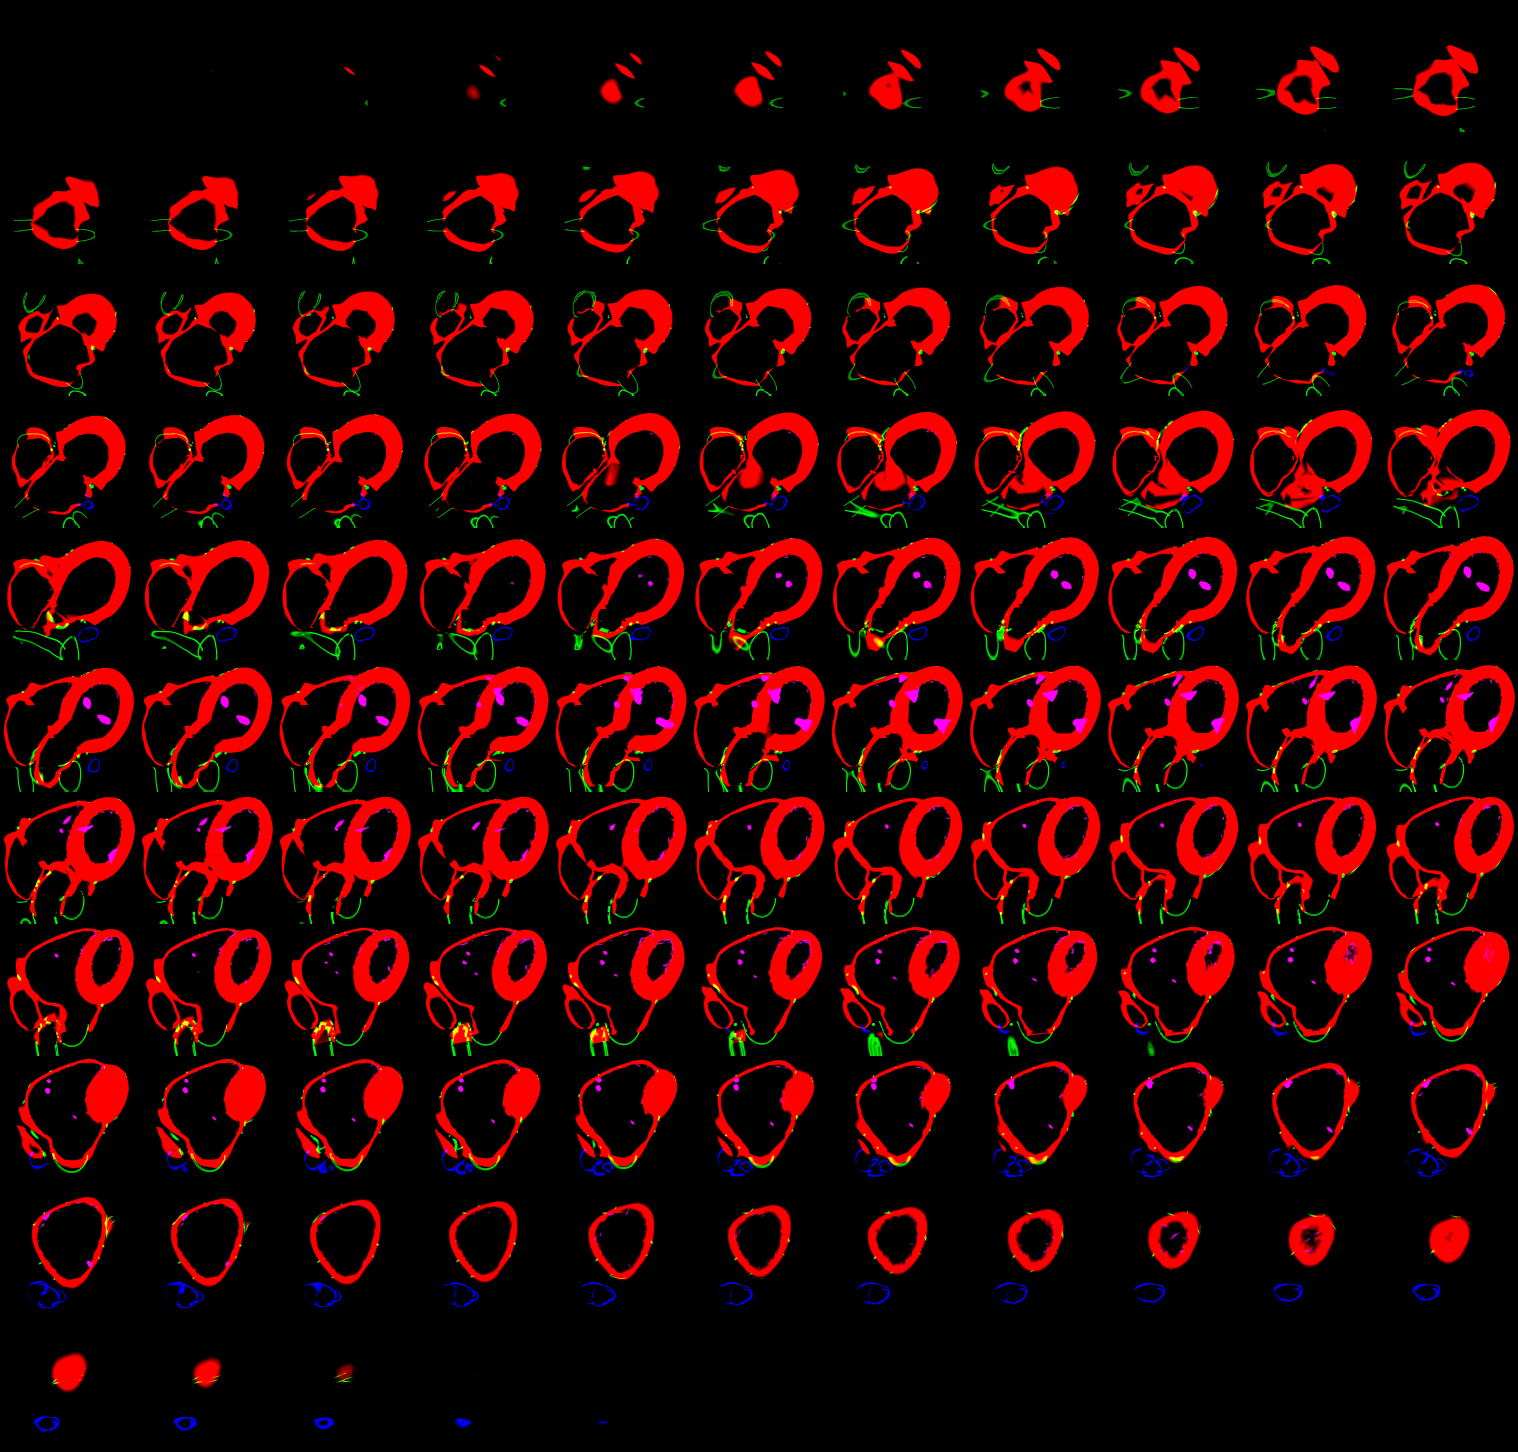
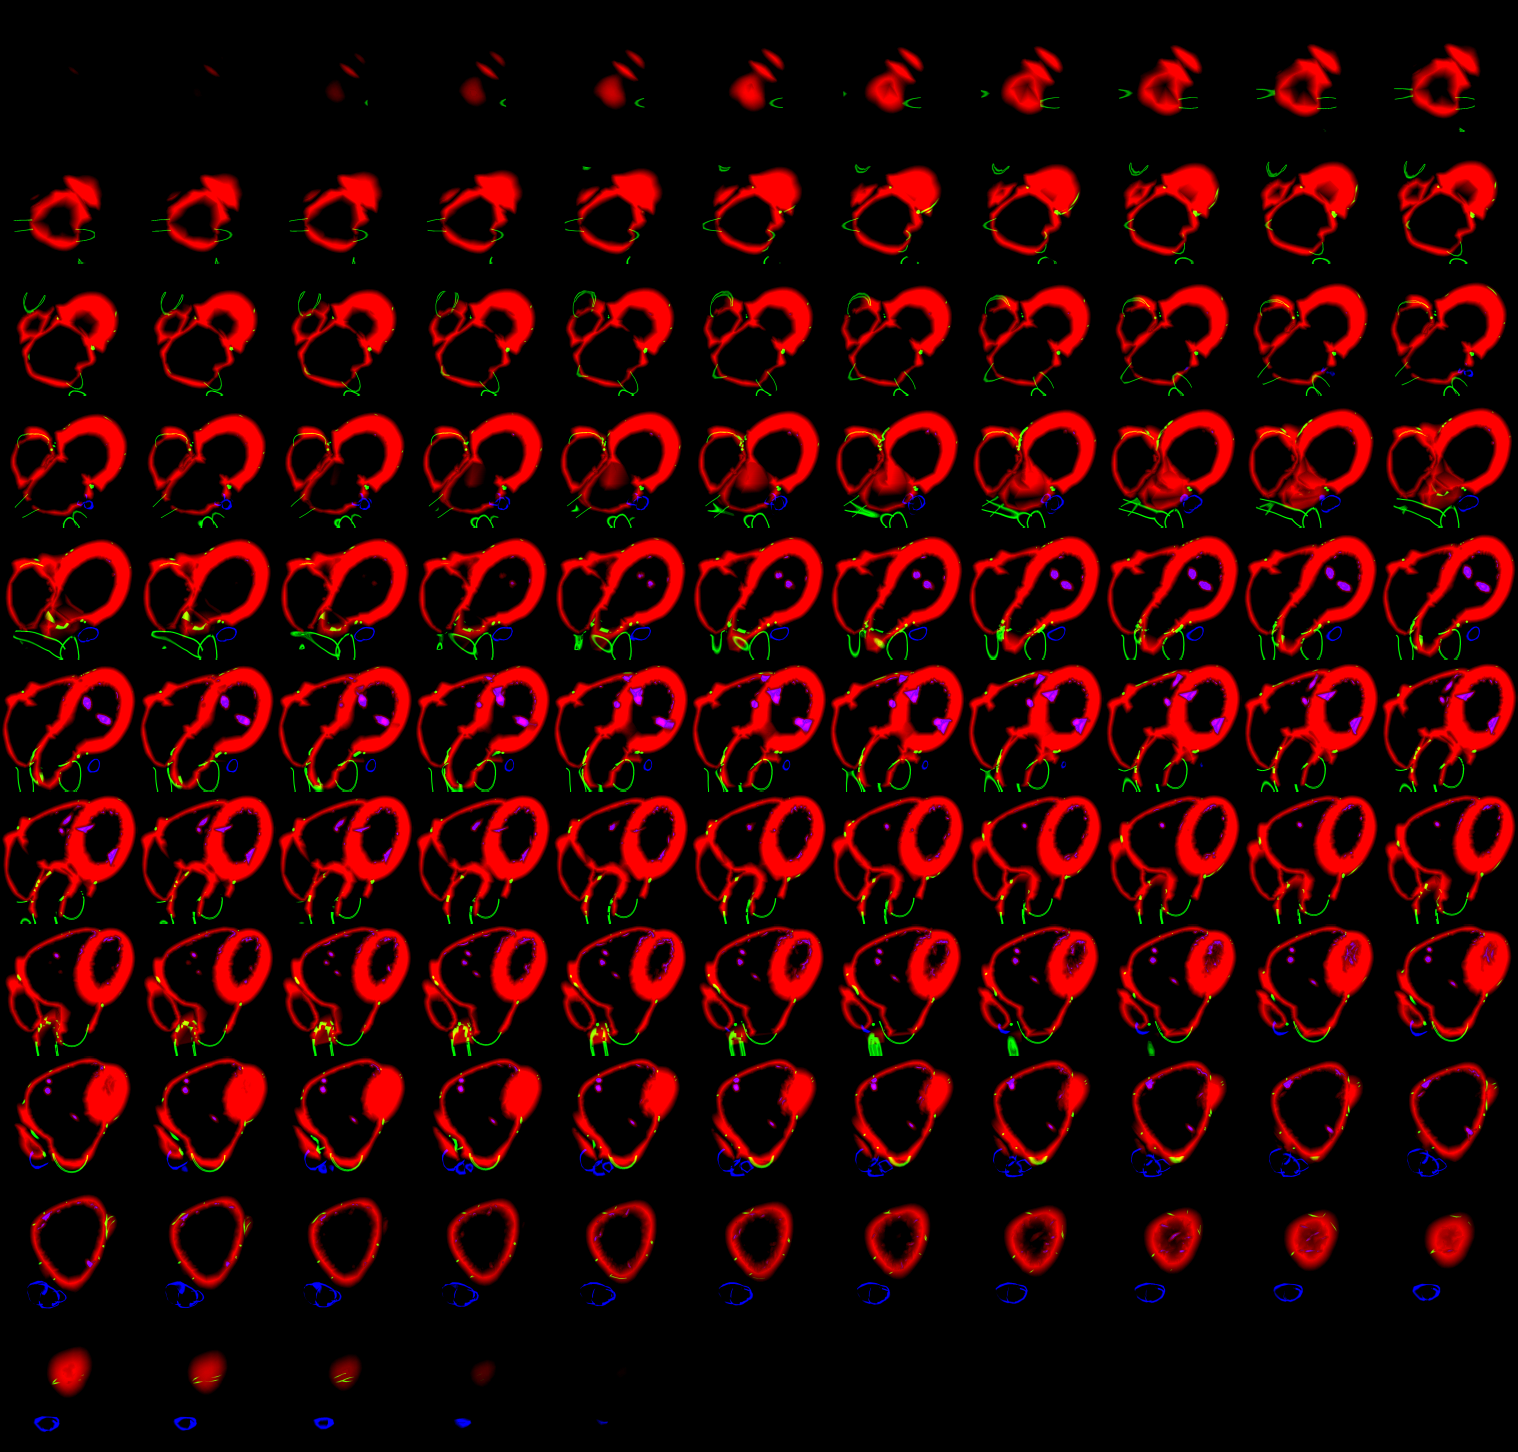
3D organi: gladek rob prereza srca, kader očesa in srca, nova sličica po nalaganju tekstur reza
- rez-stena.mjs: kanal R je predznačena razdalja do ploskve (prej delež voksla): rob pokrova ni več valovit
- organ.js + pregledovalnik.js: ko se teksture reza naložijo, model zahteva novo sličico (prej je pokrov do prvega
  dotika lahko ostal brez tekstur, skozenj so se videle venčne žile)
- oko: kamera dlje (mišice ne gredo čez rob in pod pas stikal); srce: na telefonu se ne dotika spodnjega roba

Claude-Session: https://claude.ai/code/session_01BUVnqgotbzd5vBJtUiL5sp

diff --git a/public/3d/organ.js b/public/3d/organ.js
@@ -1224,10 +1224,10 @@ export async function zgradiOrgan(ime, ctx = {}) {
     }
     // naslikane rezne ploskve: prenos šele ob prvem prerezu (celota jih ne potrebuje)
     if (rezi) {
-      for (const c of volCaka.splice(0)) new THREE.ImageLoader().load(`${BAZA}${c.pot}`, (img) => { c.tx.image = img; c.tx.needsUpdate = true; }, undefined, (e) => console.warn("organ: prostorska tekstura reza ni naložena", e));
+      for (const c of volCaka.splice(0)) new THREE.ImageLoader().load(`${BAZA}${c.pot}`, (img) => { c.tx.image = img; c.tx.needsUpdate = true; ctx.narisi?.(); }, undefined, (e) => console.warn("organ: prostorska tekstura reza ni naložena", e));
       for (const sl of slike) {
         if (sl.tex) continue;
-        sl.tex = new THREE.TextureLoader().load(`${BAZA}${sl.pot}`, (tx) => (sl.uniform.value = tx), undefined, (e) => console.warn("organ: slika reza ni naložena", e));
+        sl.tex = new THREE.TextureLoader().load(`${BAZA}${sl.pot}`, (tx) => { sl.uniform.value = tx; ctx.narisi?.(); }, undefined, (e) => console.warn("organ: slika reza ni naložena", e));
         sl.tex.colorSpace = THREE.SRGBColorSpace;
         sl.tex.flipY = false; // vrstica 0 slike = največji y ravnine (senčilnik bere 1 − y)
       }

diff --git a/public/3d/pregledovalnik.js b/public/3d/pregledovalnik.js
@@ -1021,6 +1021,7 @@ export function odpriModel(el, mod, opts = {}) {
       naloziGLB: (pot, napredek) => import("./organ.js").then((m) => m.naloziGLB(new URL(pot, new URL("./modeli/", import.meta.url)).href, napredek)),
       organ: (ime) => import("./organ.js").then((m) => m.zgradiOrgan(ime, ctx)),
       napredek: (d) => nalaganje(d),
+      narisi: () => !unicen && kit.narisi(), // model zahteva novo sličico (npr. ko se teksture reza naložijo po prvem prerezu)
     };
     let r;
     try {
